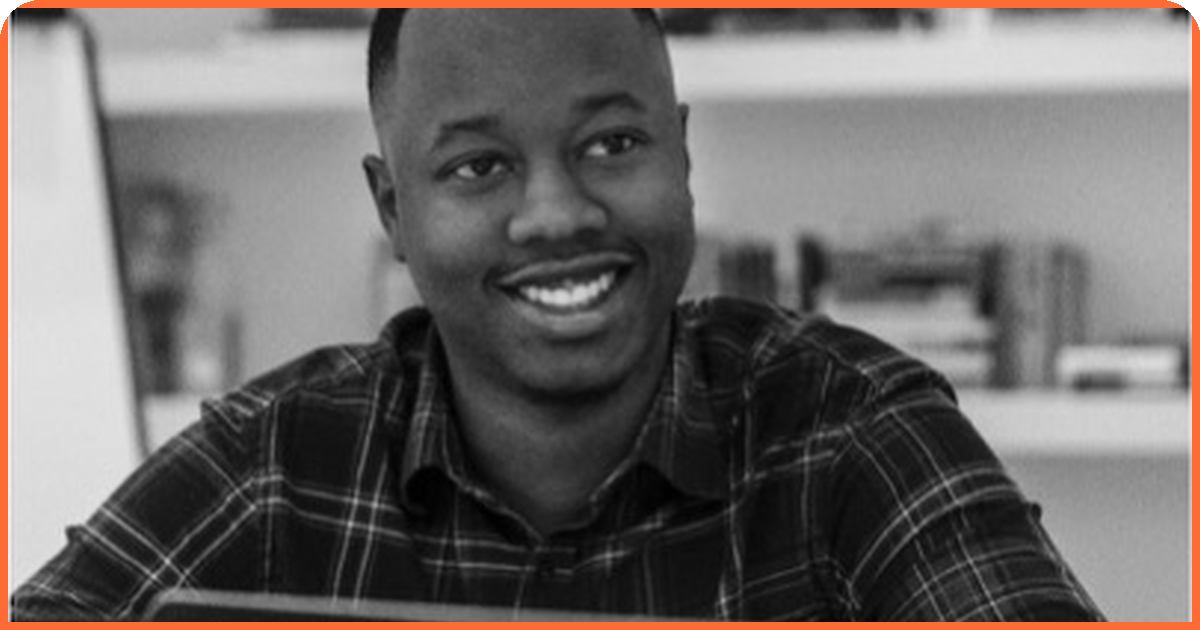
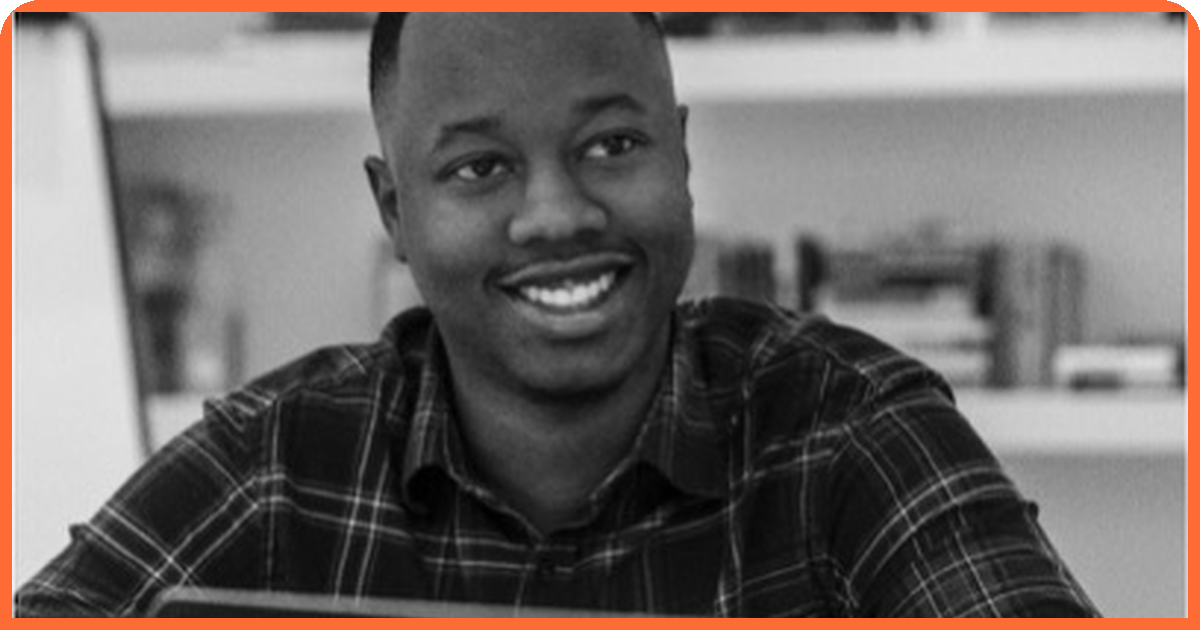
OG image: larger border so photo not cut off by corners

diff --git a/index.html b/index.html
@@ -11,7 +11,7 @@
     <meta property="og:type" content="website">
     <meta property="og:title" content="Phillip Aubrey">
     <meta property="og:description" content="CEO of Benson AI - Invest like Wall Street">
-    <meta property="og:image" content="https://phillipaubrey.com/images/og-image.png?v=3">
+    <meta property="og:image" content="https://phillipaubrey.com/images/og-image.png?v=4">
 
     <!-- Twitter Meta Tags -->
     <meta name="twitter:card" content="summary_large_image">
@@ -19,7 +19,7 @@
     <meta property="twitter:url" content="https://phillipaubrey.com">
     <meta name="twitter:title" content="Phillip Aubrey">
     <meta name="twitter:description" content="CEO of Benson AI - Invest like Wall Street">
-    <meta name="twitter:image" content="https://phillipaubrey.com/images/og-image.png?v=3">
+    <meta name="twitter:image" content="https://phillipaubrey.com/images/og-image.png?v=4">
 
     <!-- Favicon -->
     <link rel="icon" type="image/png" href="favicon.png">
